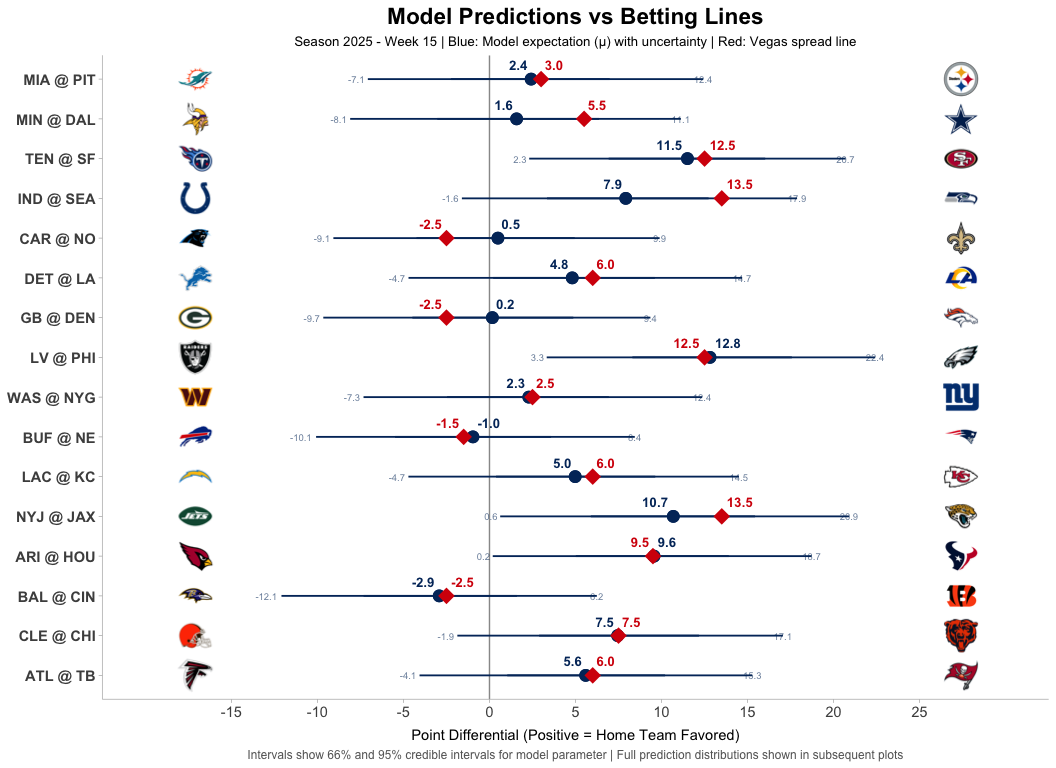
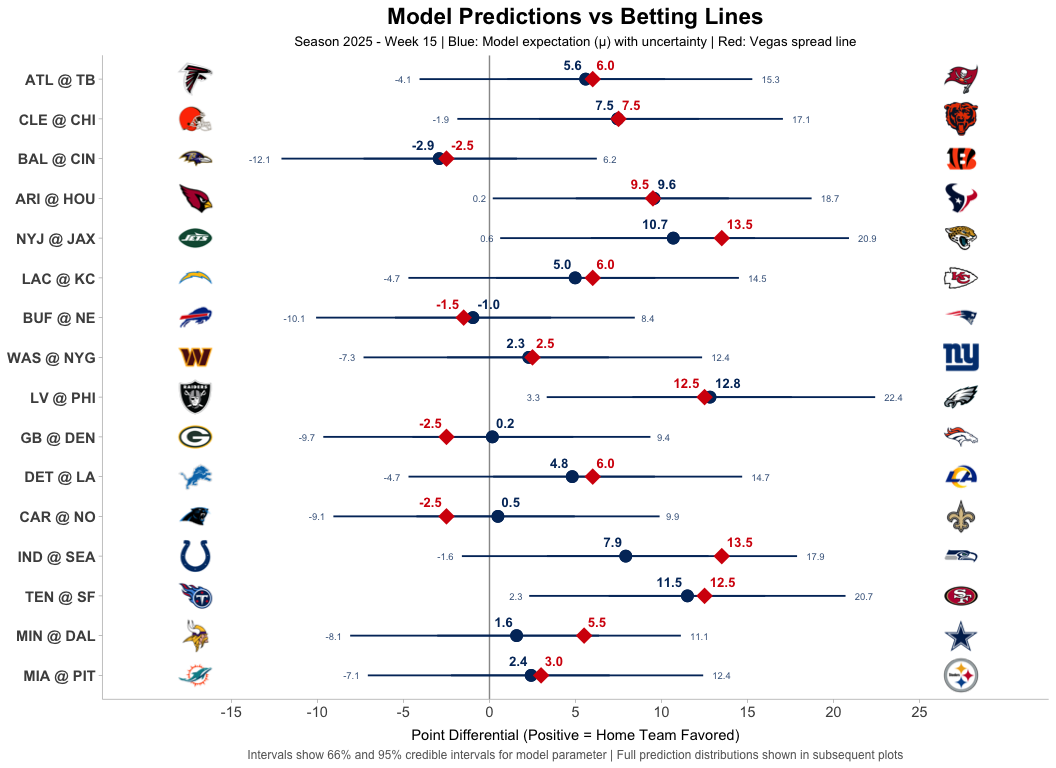
fixed text value spacing in README

diff --git a/README.md b/README.md
@@ -570,7 +570,7 @@ spread_plot <- pred_plot_df |>
     values_close = abs(spread_line - median(mu)) < 3
   ) |>
   ungroup() |>
-  ggplot(aes(y = reorder(matchup_display, game_idx))) +
+  ggplot(aes(y = reorder(matchup_display, game_idx, decreasing = TRUE))) +
   # Zero reference line
   geom_vline(
     xintercept = 0,
@@ -600,10 +600,10 @@ spread_plot <- pred_plot_df |>
       label = sprintf("%.1f", mu_lower_95)
     ),
     vjust = 0.5,
-    hjust = 1.2,
+    hjust = 1.5,
     size = 2.5,
     color = "#013369",
-    alpha = 0.6
+    alpha = 0.8
   ) +
   geom_text(
     aes(
@@ -611,9 +611,10 @@ spread_plot <- pred_plot_df |>
       label = sprintf("%.1f", mu_upper_95)
     ),
     vjust = 0.5,
+    hjust = -0.5,
     size = 2.5,
     color = "#013369",
-    alpha = 0.6
+    alpha = 0.8
   ) +
   # Spread line value label (horizontal positioning: lower value shifts left)
   geom_text(
@@ -707,7 +708,7 @@ win_prob_plot <- pred_plot_df |>
       team_colors[away_team]
     )
   ) |>
-  ggplot(aes(y = reorder(matchup_display, game_idx))) +
+  ggplot(aes(y = reorder(matchup_display, game_idx, decreasing = TRUE))) +
   geom_vline(
     xintercept = 0.5,
     linetype = "dashed",
@@ -1041,7 +1042,7 @@ betting_plot <- pred_plot_df |>
     aes(
       x = spread_line,
       label = sprintf("%.1f", spread_line),
-      hjust = if_else(spread_line < model_spread, 1.5, -0.5)
+      hjust = if_else(spread_line < model_spread, 1.75, -0.75)
     ),
     vjust = 0.5,
     size = 3.5,
@@ -1053,7 +1054,7 @@ betting_plot <- pred_plot_df |>
     aes(
       x = model_spread,
       label = sprintf("%.1f", model_spread),
-      hjust = if_else(model_spread < spread_line, 1.5, -0.5)
+      hjust = if_else(model_spread < spread_line, 1.75, -0.75)
     ),
     vjust = 0.5,
     size = 3.5,
